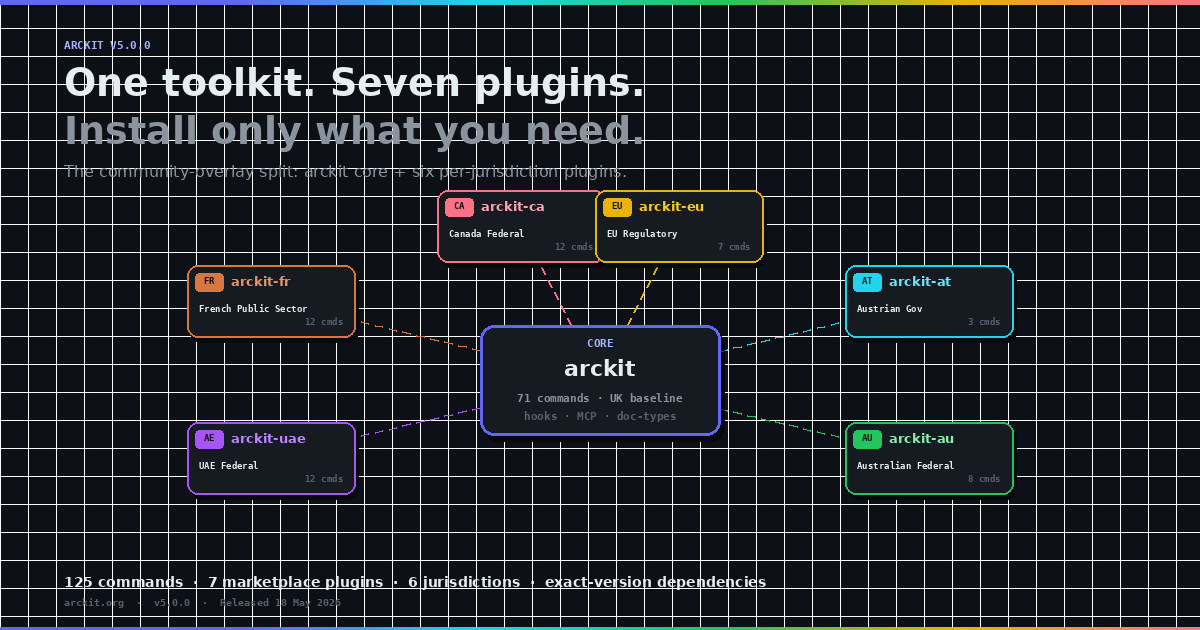
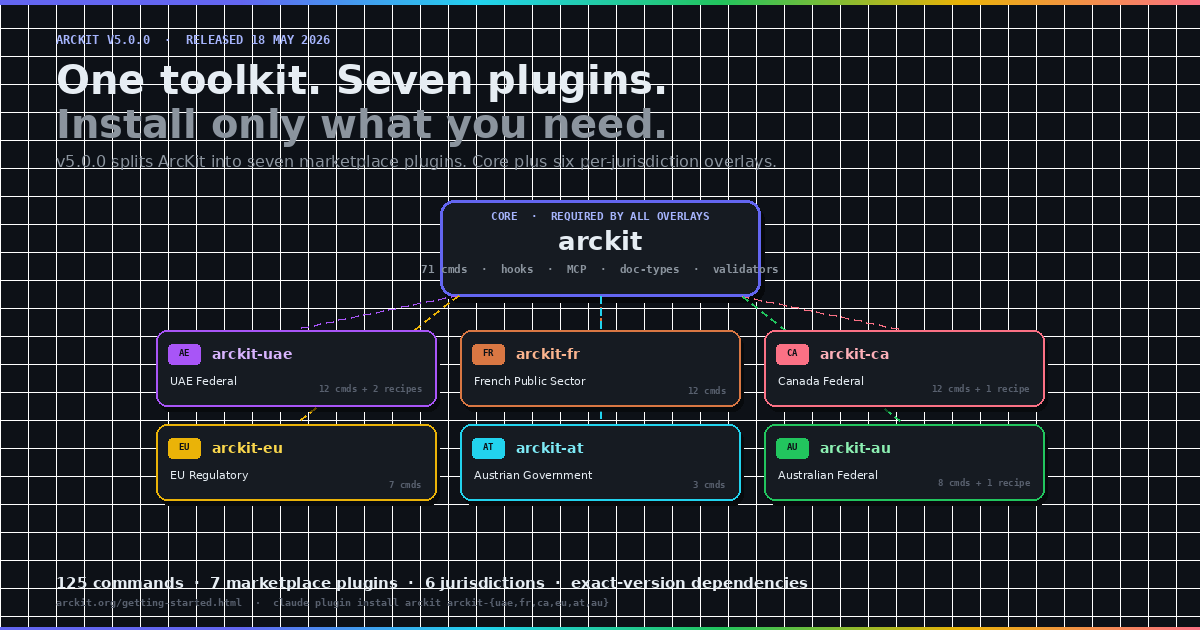
fix(article): cleaner hero layout + article tweaks
Three small fixes:

1. Hero regenerated with vertical-hierarchy layout. Previous version
   had top-row community cards crashing into the title text. New
   layout: title block (top), arckit core card (centred), 3x2 grid
   of community plugins below, stat strip at the foot. Dashed
   dependency lines run from each community card up to the core.
   No overlaps.

2. Article: stripped an unintended `\.` escape in the UAE paragraph.

3. articles.html card summary trimmed to match the leaner article
   (the dedicated 'A note on the Australian overlay' section was
   removed in an earlier edit; the card no longer claims the article
   covers the 25/25 scorecard story specifically).

Changed region(s): [[0.1233, 0.4222, 0.8633, 0.8143], [0.0308, 0.0603, 0.6475, 0.4825], [0.0308, 0.9048, 0.6783, 0.9651]]

diff --git a/docs/articles.html b/docs/articles.html
@@ -324,7 +324,7 @@
                             <span class="app-article-card__date">18 May 2026</span>
                         </div>
                         <h2 class="govuk-heading-s app-article-card__title">ArcKit v5.0.0: one toolkit, seven plugins, install only what you need</h2>
-                        <p class="app-article-card__summary">ArcKit v5.0.0 splits the monolithic plugin into seven marketplace plugins: an arckit core that ships the seventy-one official UK Government baseline commands plus six per-jurisdiction community overlays for the UAE, France, Canada, the EU, Austria and (new in v5) Australia. UK-only users get back around five thousand tokens of system-reminder bloat at every session start; multi-jurisdiction users install only the overlays they actually need; the new dependencies field auto-installs core whenever you install an overlay; and the Australian Federal / DISP-supplier overlay arrives with a 25/25 validation scorecard from a real client engagement.</p>
+                        <p class="app-article-card__summary">ArcKit v5.0.0 splits the monolithic plugin into seven marketplace plugins: an arckit core that ships the seventy-one official UK Government baseline commands plus six per-jurisdiction community overlays for the UAE, France, Canada, the EU, Austria and (new in v5) Australia. UK-only users get back around five thousand tokens of system-reminder bloat at every session start; multi-jurisdiction users install only the overlays they actually need; and the new dependencies field auto-installs core whenever you install an overlay.</p>
                         <a href="article-viewer.html?a=2026-05-18-arckit-v5-plugin-split" class="govuk-link app-article-card__link">Read article &rarr;</a>
                     </div>
                 </article>

diff --git a/docs/articles/generate-hero-v5-plugin-split.py b/docs/articles/generate-hero-v5-plugin-split.py
@@ -1,17 +1,18 @@
 """Hero for 2026-05-18-arckit-v5-plugin-split.md.
 
-Concept: hub-and-spoke visualisation of the v5.0.0 marketplace topology.
-Centre: `arckit` core plugin (71 commands, the UK Government baseline).
-Six surrounding nodes: the community overlay plugins, each with a
-jurisdiction flag-like indicator. Lines from each overlay back to the
-core represent the `dependencies` field auto-installing core.
+Concept: vertical hierarchy.
+  Row 1 — title block (left aligned, eyebrow + headline + subtitle).
+  Row 2 — single core plugin card centred.
+  Row 3 — six community-overlay plugin cards in a 3 wide x 2 tall grid.
+  Row 4 — stat strip footer.
 
-Distinct from prior hero layouts (flat grids, tiered stacks) by using
-a radial hub-and-spoke composition.
+Dashed dependency lines run from every community card up to the core card,
+illustrating the v5 `dependencies` field auto-install behaviour.
+
+1200x630 (Open Graph standard). Dark background.
 """
 
 from PIL import Image, ImageDraw, ImageFont
-import math
 import os
 
 WIDTH = 1200
@@ -24,7 +25,6 @@ TEXT_TERTIARY = (88, 96, 110)
 
 INDIGO = (99, 102, 241)
 INDIGO_TEXT = (165, 180, 252)
-INDIGO_DIM = (49, 46, 129)
 
 ORANGE = (217, 119, 67)
 PURPLE = (168, 85, 247)
@@ -44,7 +44,6 @@ for y in range(0, HEIGHT, 28):
 
 
 def draw_gradient_bar(y_start, y_end, alpha):
-    """Top/bottom gradient accent strips."""
     for x in range(WIDTH):
         t = x / WIDTH
         if t < 0.2:
@@ -97,144 +96,112 @@ def load_font(paths, size):
     return ImageFont.load_default()
 
 
-font_eyebrow = load_font(font_mono_paths, 11)
-font_title = load_font(font_bold_paths, 38)
+font_eyebrow = load_font(font_mono_paths, 12)
+font_title = load_font(font_bold_paths, 40)
 font_subtitle = load_font(font_regular_paths, 16)
-font_core_label = load_font(font_bold_paths, 22)
-font_core_sub = load_font(font_mono_paths, 11)
-font_node_label = load_font(font_bold_paths, 13)
-font_node_flag = load_font(font_bold_paths, 16)
+
+font_core_eyebrow = load_font(font_mono_paths, 11)
+font_core_name = load_font(font_bold_paths, 26)
+font_core_meta = load_font(font_mono_paths, 11)
+
+font_node_name = load_font(font_bold_paths, 14)
+font_node_label = load_font(font_regular_paths, 11)
 font_node_meta = load_font(font_mono_paths, 9)
-font_footer_stat = load_font(font_bold_paths, 14)
+
+font_footer_stat = load_font(font_bold_paths, 15)
 font_footer_meta = load_font(font_mono_paths, 10)
 
-# --- Header text block (top-left aligned) ---
-PAD = 64
+PAD = 56
 
-draw.text((PAD, 38), "ARCKIT V5.0.0", font=font_eyebrow, fill=INDIGO_TEXT)
-draw.text((PAD, 60), "One toolkit. Seven plugins.", font=font_title, fill=TEXT_PRIMARY)
-draw.text((PAD, 108), "Install only what you need.", font=font_title, fill=TEXT_SECONDARY)
-draw.text((PAD, 162), "The community-overlay split: arckit core + six per-jurisdiction plugins.",
+# --- Row 1: Title block (top, left-aligned) ---
+draw.text((PAD, 32), "ARCKIT V5.0.0  ·  RELEASED 18 MAY 2026", font=font_eyebrow, fill=INDIGO_TEXT)
+draw.text((PAD, 56), "One toolkit. Seven plugins.", font=font_title, fill=TEXT_PRIMARY)
+draw.text((PAD, 100), "Install only what you need.", font=font_title, fill=TEXT_SECONDARY)
+draw.text((PAD, 152),
+          "v5.0.0 splits ArcKit into seven marketplace plugins. Core plus six per-jurisdiction overlays.",
           font=font_subtitle, fill=TEXT_SECONDARY)
 
-# --- Hub-and-spoke layout ---
-CENTRE_X = WIDTH // 2
-CENTRE_Y = 380
+# --- Row 2: Core plugin card, centred ---
+CORE_W = 320
+CORE_H = 96
+CORE_X0 = (WIDTH - CORE_W) // 2
+CORE_Y0 = 200
+CORE_X1 = CORE_X0 + CORE_W
+CORE_Y1 = CORE_Y0 + CORE_H
+CORE_CENTRE_X = (CORE_X0 + CORE_X1) // 2
 
-# Core node geometry
-CORE_W = 240
-CORE_H = 110
-core_x0 = CENTRE_X - CORE_W // 2
-core_y0 = CENTRE_Y - CORE_H // 2
-core_x1 = CENTRE_X + CORE_W // 2
-core_y1 = CENTRE_Y + CORE_H // 2
-
-# Overlay nodes around the core (6 plugins).
-# Place them on a roughly elliptical orbit with the long axis horizontal,
-# leaving room above for the header and below for the footer.
-NODE_W = 168
-NODE_H = 72
-RADIUS_X = 380
-RADIUS_Y = 158
-
-# (name, label, flag emoji, command count, ring colour, text colour)
-overlays = [
-    ("arckit-uae", "UAE Federal", "AE", "12 cmds", PURPLE, (192, 132, 252)),
-    ("arckit-fr", "French Public Sector", "FR", "12 cmds", ORANGE, (232, 149, 106)),
-    ("arckit-ca", "Canada Federal", "CA", "12 cmds", SALMON, (253, 164, 175)),
-    ("arckit-eu", "EU Regulatory", "EU", "7 cmds", GOLD, (250, 204, 21)),
-    ("arckit-at", "Austrian Gov", "AT", "3 cmds", CYAN, (103, 232, 249)),
-    ("arckit-au", "Australian Federal", "AU", "8 cmds", GREEN, (134, 239, 172)),
-]
-
-# Angle assignments (radians), 6 plugins around the hub.
-# Skip the very top and bottom so the title and footer stay clean.
-angles = [
-    math.radians(150),  # upper left
-    math.radians(210),  # lower left
-    math.radians(270 - 12),  # below-centre, left
-    math.radians(270 + 12),  # below-centre, right
-    math.radians(330),  # lower right
-    math.radians(30),   # upper right
-]
-
-node_positions = []
-for (name, label, flag, count, ring, text_col), angle in zip(overlays, angles):
-    nx = CENTRE_X + int(math.cos(angle) * RADIUS_X)
-    ny = CENTRE_Y + int(math.sin(angle) * RADIUS_Y)
-    node_positions.append((name, label, flag, count, ring, text_col, nx, ny))
-
-# Draw the connection lines first so the nodes sit on top.
-for (_, _, _, _, ring, _, nx, ny) in node_positions:
-    # Compute the edge of the core rectangle along the direction of the node.
-    dx = nx - CENTRE_X
-    dy = ny - CENTRE_Y
-    if dx == 0:
-        sx = CENTRE_X
-        sy = core_y0 if dy < 0 else core_y1
-    else:
-        slope = dy / dx
-        if abs(slope) * (CORE_W / 2) <= CORE_H / 2:
-            sx = CENTRE_X + (CORE_W // 2) * (1 if dx > 0 else -1)
-            sy = CENTRE_Y + slope * (CORE_W / 2) * (1 if dx > 0 else -1)
-        else:
-            sy_off = CORE_H // 2 * (1 if dy > 0 else -1)
-            sx = CENTRE_X + (sy_off / slope)
-            sy = CENTRE_Y + sy_off
-    # And the edge of the overlay rectangle along the same line.
-    if dx == 0:
-        ex = nx
-        ey = ny + (NODE_H // 2 if dy < 0 else -NODE_H // 2)
-    else:
-        slope = dy / dx
-        if abs(slope) * (NODE_W / 2) <= NODE_H / 2:
-            ex = nx - (NODE_W // 2) * (1 if dx > 0 else -1)
-            ey = ny - slope * (NODE_W / 2) * (1 if dx > 0 else -1)
-        else:
-            ey_off = NODE_H // 2 * (1 if dy > 0 else -1)
-            ex = nx - (ey_off / slope)
-            ey = ny - ey_off
-    # Dashed line in the ring colour.
-    total = ((ex - sx) ** 2 + (ey - sy) ** 2) ** 0.5
-    if total < 1:
-        continue
-    steps = max(int(total // 14), 2)
-    for i in range(steps):
-        a = i / steps
-        b = (i + 0.55) / steps
-        x1 = sx + (ex - sx) * a
-        y1 = sy + (ey - sy) * a
-        x2 = sx + (ex - sx) * b
-        y2 = sy + (ey - sy) * b
-        draw.line([(x1, y1), (x2, y2)], fill=ring + (160,), width=2)
-
-# --- Core node ---
-# Drop shadow.
+# Drop shadow
 shadow = Image.new("RGBA", (WIDTH, HEIGHT), (0, 0, 0, 0))
 sdraw = ImageDraw.Draw(shadow)
-sdraw.rounded_rectangle((core_x0 + 4, core_y0 + 6, core_x1 + 4, core_y1 + 6),
+sdraw.rounded_rectangle((CORE_X0 + 4, CORE_Y0 + 6, CORE_X1 + 4, CORE_Y1 + 6),
                         radius=14, fill=(0, 0, 0, 130))
 img.alpha_composite(shadow)
 
-# Card.
-draw.rounded_rectangle((core_x0, core_y0, core_x1, core_y1),
+draw.rounded_rectangle((CORE_X0, CORE_Y0, CORE_X1, CORE_Y1),
                        radius=14, fill=(22, 27, 34, 255), outline=INDIGO + (255,), width=3)
-# Eyebrow + name + meta.
-draw.text((CENTRE_X, core_y0 + 14), "CORE", font=font_eyebrow, fill=INDIGO_TEXT, anchor="mt")
-draw.text((CENTRE_X, core_y0 + 34), "arckit", font=font_core_label, fill=TEXT_PRIMARY, anchor="mt")
-draw.text((CENTRE_X, core_y0 + 68), "71 commands · UK baseline", font=font_core_sub,
-          fill=TEXT_SECONDARY, anchor="mt")
-draw.text((CENTRE_X, core_y0 + 86), "hooks · MCP · doc-types", font=font_core_sub,
-          fill=TEXT_TERTIARY, anchor="mt")
 
-# --- Overlay nodes ---
-for (name, label, flag, count, ring, text_col, nx, ny) in node_positions:
-    nx0 = nx - NODE_W // 2
-    ny0 = ny - NODE_H // 2
-    nx1 = nx + NODE_W // 2
-    ny1 = ny + NODE_H // 2
+draw.text((CORE_CENTRE_X, CORE_Y0 + 12), "CORE  ·  REQUIRED BY ALL OVERLAYS",
+          font=font_core_eyebrow, fill=INDIGO_TEXT, anchor="mt")
+draw.text((CORE_CENTRE_X, CORE_Y0 + 30), "arckit",
+          font=font_core_name, fill=TEXT_PRIMARY, anchor="mt")
+draw.text((CORE_CENTRE_X, CORE_Y0 + 64), "71 cmds  ·  hooks  ·  MCP  ·  doc-types  ·  validators",
+          font=font_core_meta, fill=TEXT_SECONDARY, anchor="mt")
 
-    # Drop shadow.
+# --- Row 3: Six community-overlay cards in a 3-wide x 2-tall grid ---
+NODE_W = 280
+NODE_H = 76
+GRID_GAP_X = 24
+GRID_GAP_Y = 18
+GRID_TOTAL_W = NODE_W * 3 + GRID_GAP_X * 2
+GRID_LEFT = (WIDTH - GRID_TOTAL_W) // 2
+GRID_TOP = 330
+
+# (plugin name, jurisdiction label, code, command count, accent colour, label colour)
+overlays = [
+    ("arckit-uae", "UAE Federal",         "AE", "12 cmds + 2 recipes", PURPLE, (216, 180, 254)),
+    ("arckit-fr",  "French Public Sector", "FR", "12 cmds",            ORANGE, (251, 180, 142)),
+    ("arckit-ca",  "Canada Federal",      "CA", "12 cmds + 1 recipe",  SALMON, (253, 175, 184)),
+    ("arckit-eu",  "EU Regulatory",       "EU", "7 cmds",              GOLD,   (250, 215, 76)),
+    ("arckit-at",  "Austrian Government", "AT", "3 cmds",              CYAN,   (125, 234, 246)),
+    ("arckit-au",  "Australian Federal",  "AU", "8 cmds + 1 recipe",   GREEN,  (140, 240, 178)),
+]
+
+node_rects = []
+for idx, (name, label, code, count, ring, text_col) in enumerate(overlays):
+    col = idx % 3
+    row = idx // 3
+    nx0 = GRID_LEFT + col * (NODE_W + GRID_GAP_X)
+    ny0 = GRID_TOP + row * (NODE_H + GRID_GAP_Y)
+    nx1 = nx0 + NODE_W
+    ny1 = ny0 + NODE_H
+    node_rects.append((nx0, ny0, nx1, ny1, name, label, code, count, ring, text_col))
+
+# Connection lines first so cards sit on top.
+# Top-row cards draw a short line up from their top edge to the core's bottom edge.
+# Bottom-row cards draw a longer line up through the gap.
+for (nx0, ny0, nx1, ny1, name, label, code, count, ring, text_col) in node_rects:
+    node_top_centre_x = (nx0 + nx1) // 2
+    # Connection enters the core at a point on its bottom edge nearest the node.
+    enter_x = max(CORE_X0 + 18, min(CORE_X1 - 18, node_top_centre_x))
+    enter_y = CORE_Y1
+    leave_x = node_top_centre_x
+    leave_y = ny0
+    # Two-segment vertical-then-vertical (with a tiny horizontal jog if needed),
+    # rendered as a dashed line. Use a single straight line for simplicity.
+    total_len = ((leave_x - enter_x) ** 2 + (leave_y - enter_y) ** 2) ** 0.5
+    steps = max(int(total_len // 12), 3)
+    for s in range(steps):
+        a = s / steps
+        b = (s + 0.55) / steps
+        x1 = enter_x + (leave_x - enter_x) * a
+        y1 = enter_y + (leave_y - enter_y) * a
+        x2 = enter_x + (leave_x - enter_x) * b
+        y2 = enter_y + (leave_y - enter_y) * b
+        draw.line([(x1, y1), (x2, y2)], fill=ring + (130,), width=2)
+
+# Render the cards.
+for (nx0, ny0, nx1, ny1, name, label, code, count, ring, text_col) in node_rects:
+    # Drop shadow
     shadow = Image.new("RGBA", (WIDTH, HEIGHT), (0, 0, 0, 0))
     sdraw = ImageDraw.Draw(shadow)
     sdraw.rounded_rectangle((nx0 + 3, ny0 + 5, nx1 + 3, ny1 + 5),
@@ -244,35 +211,38 @@ for (name, label, flag, count, ring, text_col, nx, ny) in node_positions:
     draw.rounded_rectangle((nx0, ny0, nx1, ny1),
                            radius=11, fill=(22, 27, 34, 255), outline=ring + (255,), width=2)
 
-    # Flag-style tag chip on the left.
-    chip_x0 = nx0 + 8
-    chip_y0 = ny0 + 8
-    chip_x1 = chip_x0 + 28
-    chip_y1 = chip_y0 + 18
+    # Country code chip on the left.
+    chip_x0 = nx0 + 12
+    chip_y0 = ny0 + 14
+    chip_x1 = chip_x0 + 32
+    chip_y1 = chip_y0 + 20
     draw.rounded_rectangle((chip_x0, chip_y0, chip_x1, chip_y1),
                            radius=4, fill=ring + (255,))
     draw.text(((chip_x0 + chip_x1) // 2, (chip_y0 + chip_y1) // 2 - 1),
-              flag, font=font_node_meta, fill=(13, 17, 23), anchor="mm")
+              code, font=font_node_meta, fill=(13, 17, 23), anchor="mm")
 
-    # Plugin name (mono, bold, accent colour).
-    draw.text((chip_x1 + 8, chip_y0 + 8), name, font=font_node_label, fill=text_col,
-              anchor="lm")
-    # Human label.
-    draw.text((nx0 + 12, ny0 + 38), label, font=font_node_meta, fill=TEXT_PRIMARY)
-    # Command count.
-    draw.text((nx1 - 12, ny1 - 12), count, font=font_node_meta, fill=TEXT_TERTIARY,
-              anchor="rb")
+    # Plugin name (mono, bold, accent colour) next to chip.
+    draw.text((chip_x1 + 12, chip_y0 + 10), name,
+              font=font_node_name, fill=text_col, anchor="lm")
 
-# --- Footer stat strip ---
-footer_y = HEIGHT - 56
-draw.text((PAD, footer_y),
+    # Human label on second row.
+    draw.text((nx0 + 14, ny0 + 44), label, font=font_node_label, fill=TEXT_PRIMARY)
+
+    # Command count on right, second row.
+    draw.text((nx1 - 14, ny1 - 12), count,
+              font=font_node_meta, fill=TEXT_TERTIARY, anchor="rb")
+
+# --- Row 4: Footer stat strip ---
+FOOTER_Y = HEIGHT - 56
+draw.text((PAD, FOOTER_Y),
           "125 commands  ·  7 marketplace plugins  ·  6 jurisdictions  ·  exact-version dependencies",
           font=font_footer_stat, fill=TEXT_PRIMARY)
-draw.text((PAD, footer_y + 22),
-          "arckit.org  ·  v5.0.0  ·  Released 18 May 2026",
+draw.text((PAD, FOOTER_Y + 22),
+          "arckit.org/getting-started.html  ·  claude plugin install arckit arckit-{uae,fr,ca,eu,at,au}",
           font=font_footer_meta, fill=TEXT_TERTIARY)
 
 # --- Save ---
-out_path = os.path.join(os.path.dirname(__file__) or ".", "2026-05-18-arckit-v5-plugin-split-hero.png")
+out_path = os.path.join(os.path.dirname(__file__) or ".",
+                       "2026-05-18-arckit-v5-plugin-split-hero.png")
 img.convert("RGB").save(out_path, "PNG", optimize=True)
 print(f"Wrote {out_path}")

diff --git a/docs/articles/2026-05-18-arckit-v5-plugin-split.md b/docs/articles/2026-05-18-arckit-v5-plugin-split.md
@@ -40,10 +40,6 @@ The split would be merely an organisational change if installing a community plu
 
 Every community plugin declares an exact dependency on `arckit` core. When you run `claude plugin install arckit-uae`, Claude Code resolves the dependency, fetches the core plugin, installs it, then installs the community plugin and reports both at the end of the install output. You do not have to know the dependency chain. You ask for the overlay you want and the toolkit installs what makes it work.
 
-The exact pin matters. v5.0.0 uses `=5.0.0` as the version constraint on every community plugin. That means the six community plugins always ship as a coherent set with the core plugin they were validated against. If the core plugin ever ships a breaking change, the community plugins do not silently track it. They hold at the version they were tested against until a new community-plugin release widens the constraint. The release flow keeps all seven plugins in lockstep. A single `scripts/bump-version.sh 5.0.0` updates every plugin manifest, every VERSION file, the marketplace catalogue, and every community plugin's dependency pin in one pass.
-
-The other half of the dependency machinery is the `claude plugin prune` command introduced in v2.1.121. When you uninstall a community plugin with the `--prune` flag, Claude Code removes the plugin and any dependencies that were auto-installed and are no longer required. The core plugin survives if you installed it yourself, gets cleaned up if you only ended up with it because a community plugin asked for it. The lifecycle is clean in both directions.
-
 ## Three-tier recipe lookup
 
 The build harness moves too. The `arckit-build` skill that powers the bulk artefact generation now does a three-tier recipe lookup. It checks project overrides first (`.arckit/recipes/{name}.yaml` for user-customised recipes that survive plugin updates), then the core plugin (for the UK Government recipes: `uk-saas` and `uk-mod-sovereign`), then sibling community plugins via a glob on `${CLAUDE_PLUGIN_ROOT}/../arckit-*/recipes/{name}.yaml`. The glob picks up `arckit-uae/recipes/uae-federal-ai.yaml`, `arckit-ca/recipes/ca-federal-fitaa.yaml`, `arckit-au/recipes/au-federal.yaml` and any future community plugin's recipes without any further code change.
@@ -74,12 +70,6 @@ For new jurisdictions, the template is now obvious. Look at `arckit-au` (the new
 
 Adding a new doc-type code is the one rule worth being explicit about. Because doc types live in `arckit-claude/config/doc-types.mjs`, any new community command that emits a new doc type requires a two-part contribution: the command in the community plugin, the doc-type registration in the core plugin. The collision check in CI catches duplicates automatically. The pattern is documented in [CONTRIBUTING.md](https://github.com/tractorjuice/arc-kit/blob/main/CONTRIBUTING.md).
 
-## A note on the Australian overlay
-
-The Australian Federal overlay is brand new in v5.0.0 and arrived through a different path than the other community plugins. [@royster70](https://github.com/royster70) authored the eight commands, eight templates, the `au-federal` recipe, the validation scorecard and the overlay maintenance guide as a single contribution validated end-to-end against a real Australian SMB engagement (DISP Level 2 in progress, OFFICIAL:Sensitive). The contribution shipped against the pre-v5 layout and was restructured into the `arckit-au` plugin directory when v5.0.0 merged. The 25 out of 25 evaluation scorecard pass, the 220 AU framework references in the validation artefacts, and the zero UK framework leakage all carry across the restructuring.
-
-The Australian overlay is the third validated community overlay (after the UAE Federal and Canada Federal overlays) and the first one that arrived with a validation scorecard published alongside it. The pattern (community contributor with domain expertise, real client engagement, mechanical-grep evidence) is the one we hope future contributions follow.
-
 ## Where to start
 
 Existing projects: open a v5.0.0 session in any project that previously used ArcKit and the migration banner will tell you exactly what to install. The whole migration usually takes one command and a `touch` to acknowledge.
@@ -88,4 +78,4 @@ New projects: the [Getting Started guide](https://arckit.org/getting-started.htm
 
 Maintainers of jurisdictional overlays: your contribution surface just got smaller and clearer. The seventh plugin (`arckit-au`) is the template for the eighth.
 
-ArcKit v5.0.0 is on [GitHub](https://github.com/tractorjuice/arc-kit/releases/tag/v5.0.0). The full changelog is in the [release notes](https://github.com/tractorjuice/arc-kit/blob/main/CHANGELOG.md). The seven plugins are in the marketplace at `tractorjuice/arc-kit`.
+ArcKit v5.0.0 is on [GitHub](https://github.com/tractorjuice/arc-kit/releases/tag/v5.0.0). The full changelog is in the [release notes](https://github.com/tractorjuice/arc-kit/blob/main/CHANGELOG.md). The seven plugins are in the marketplace at `tractorjuice/arc-kit`.  
